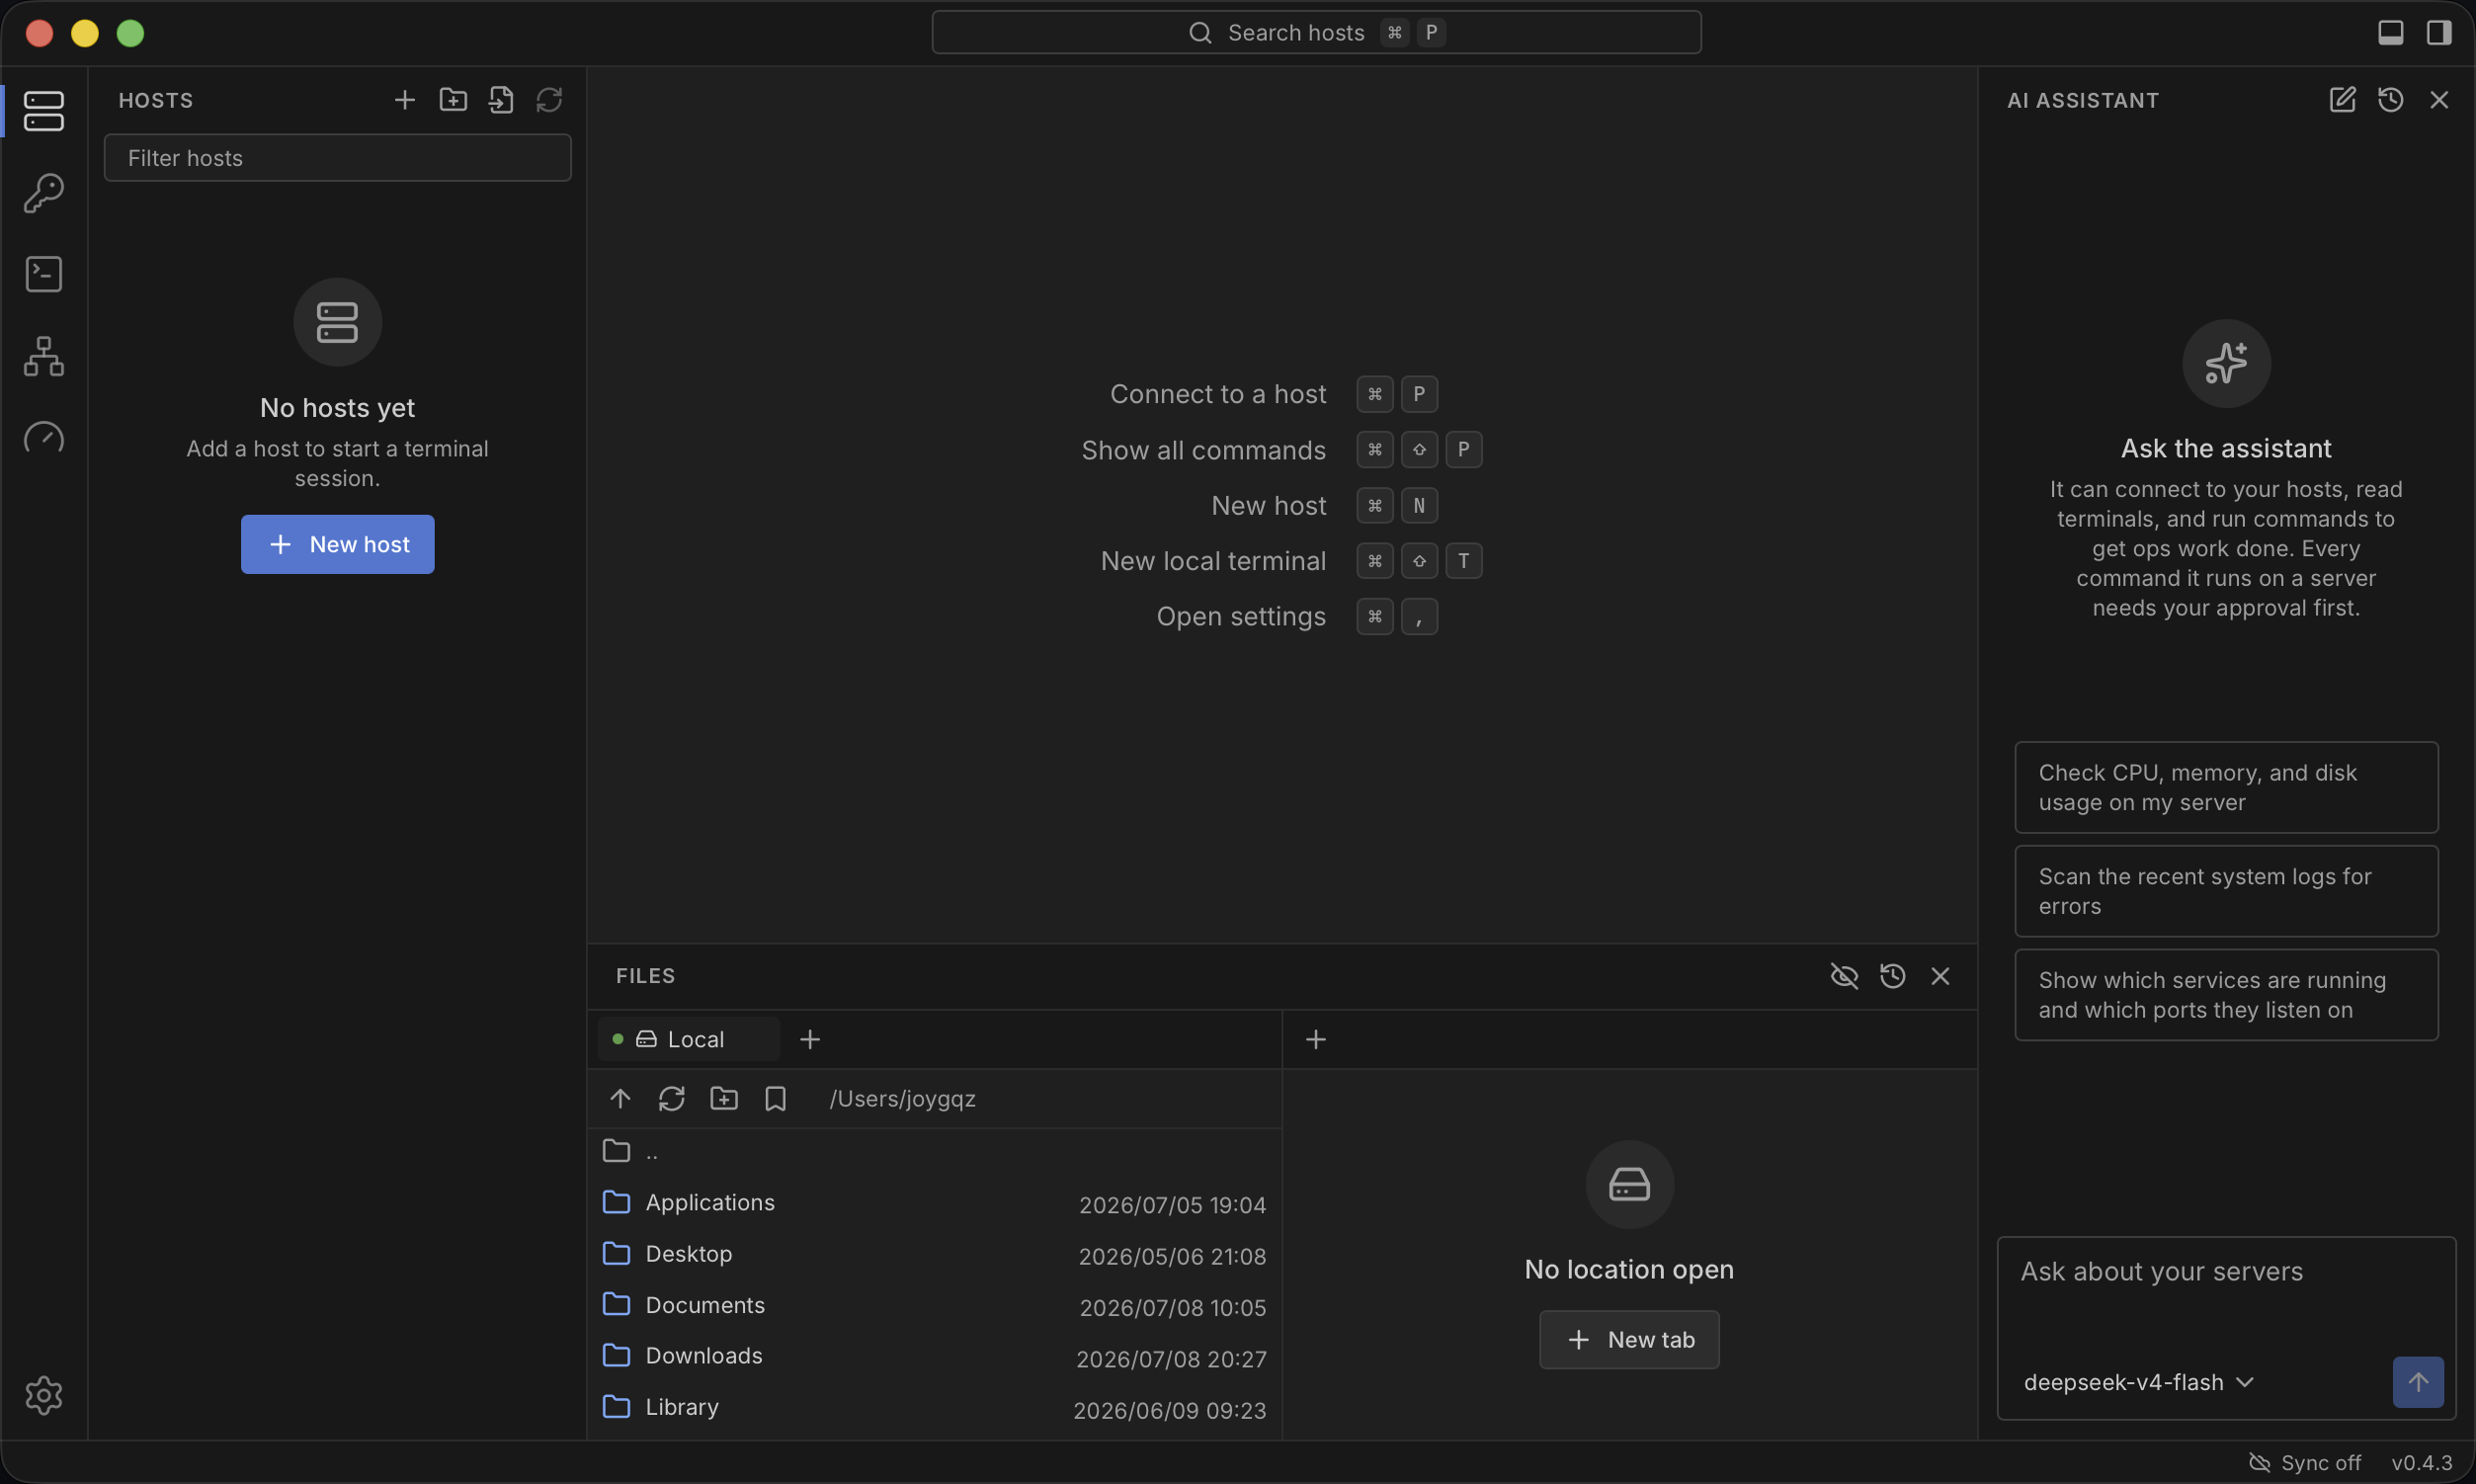
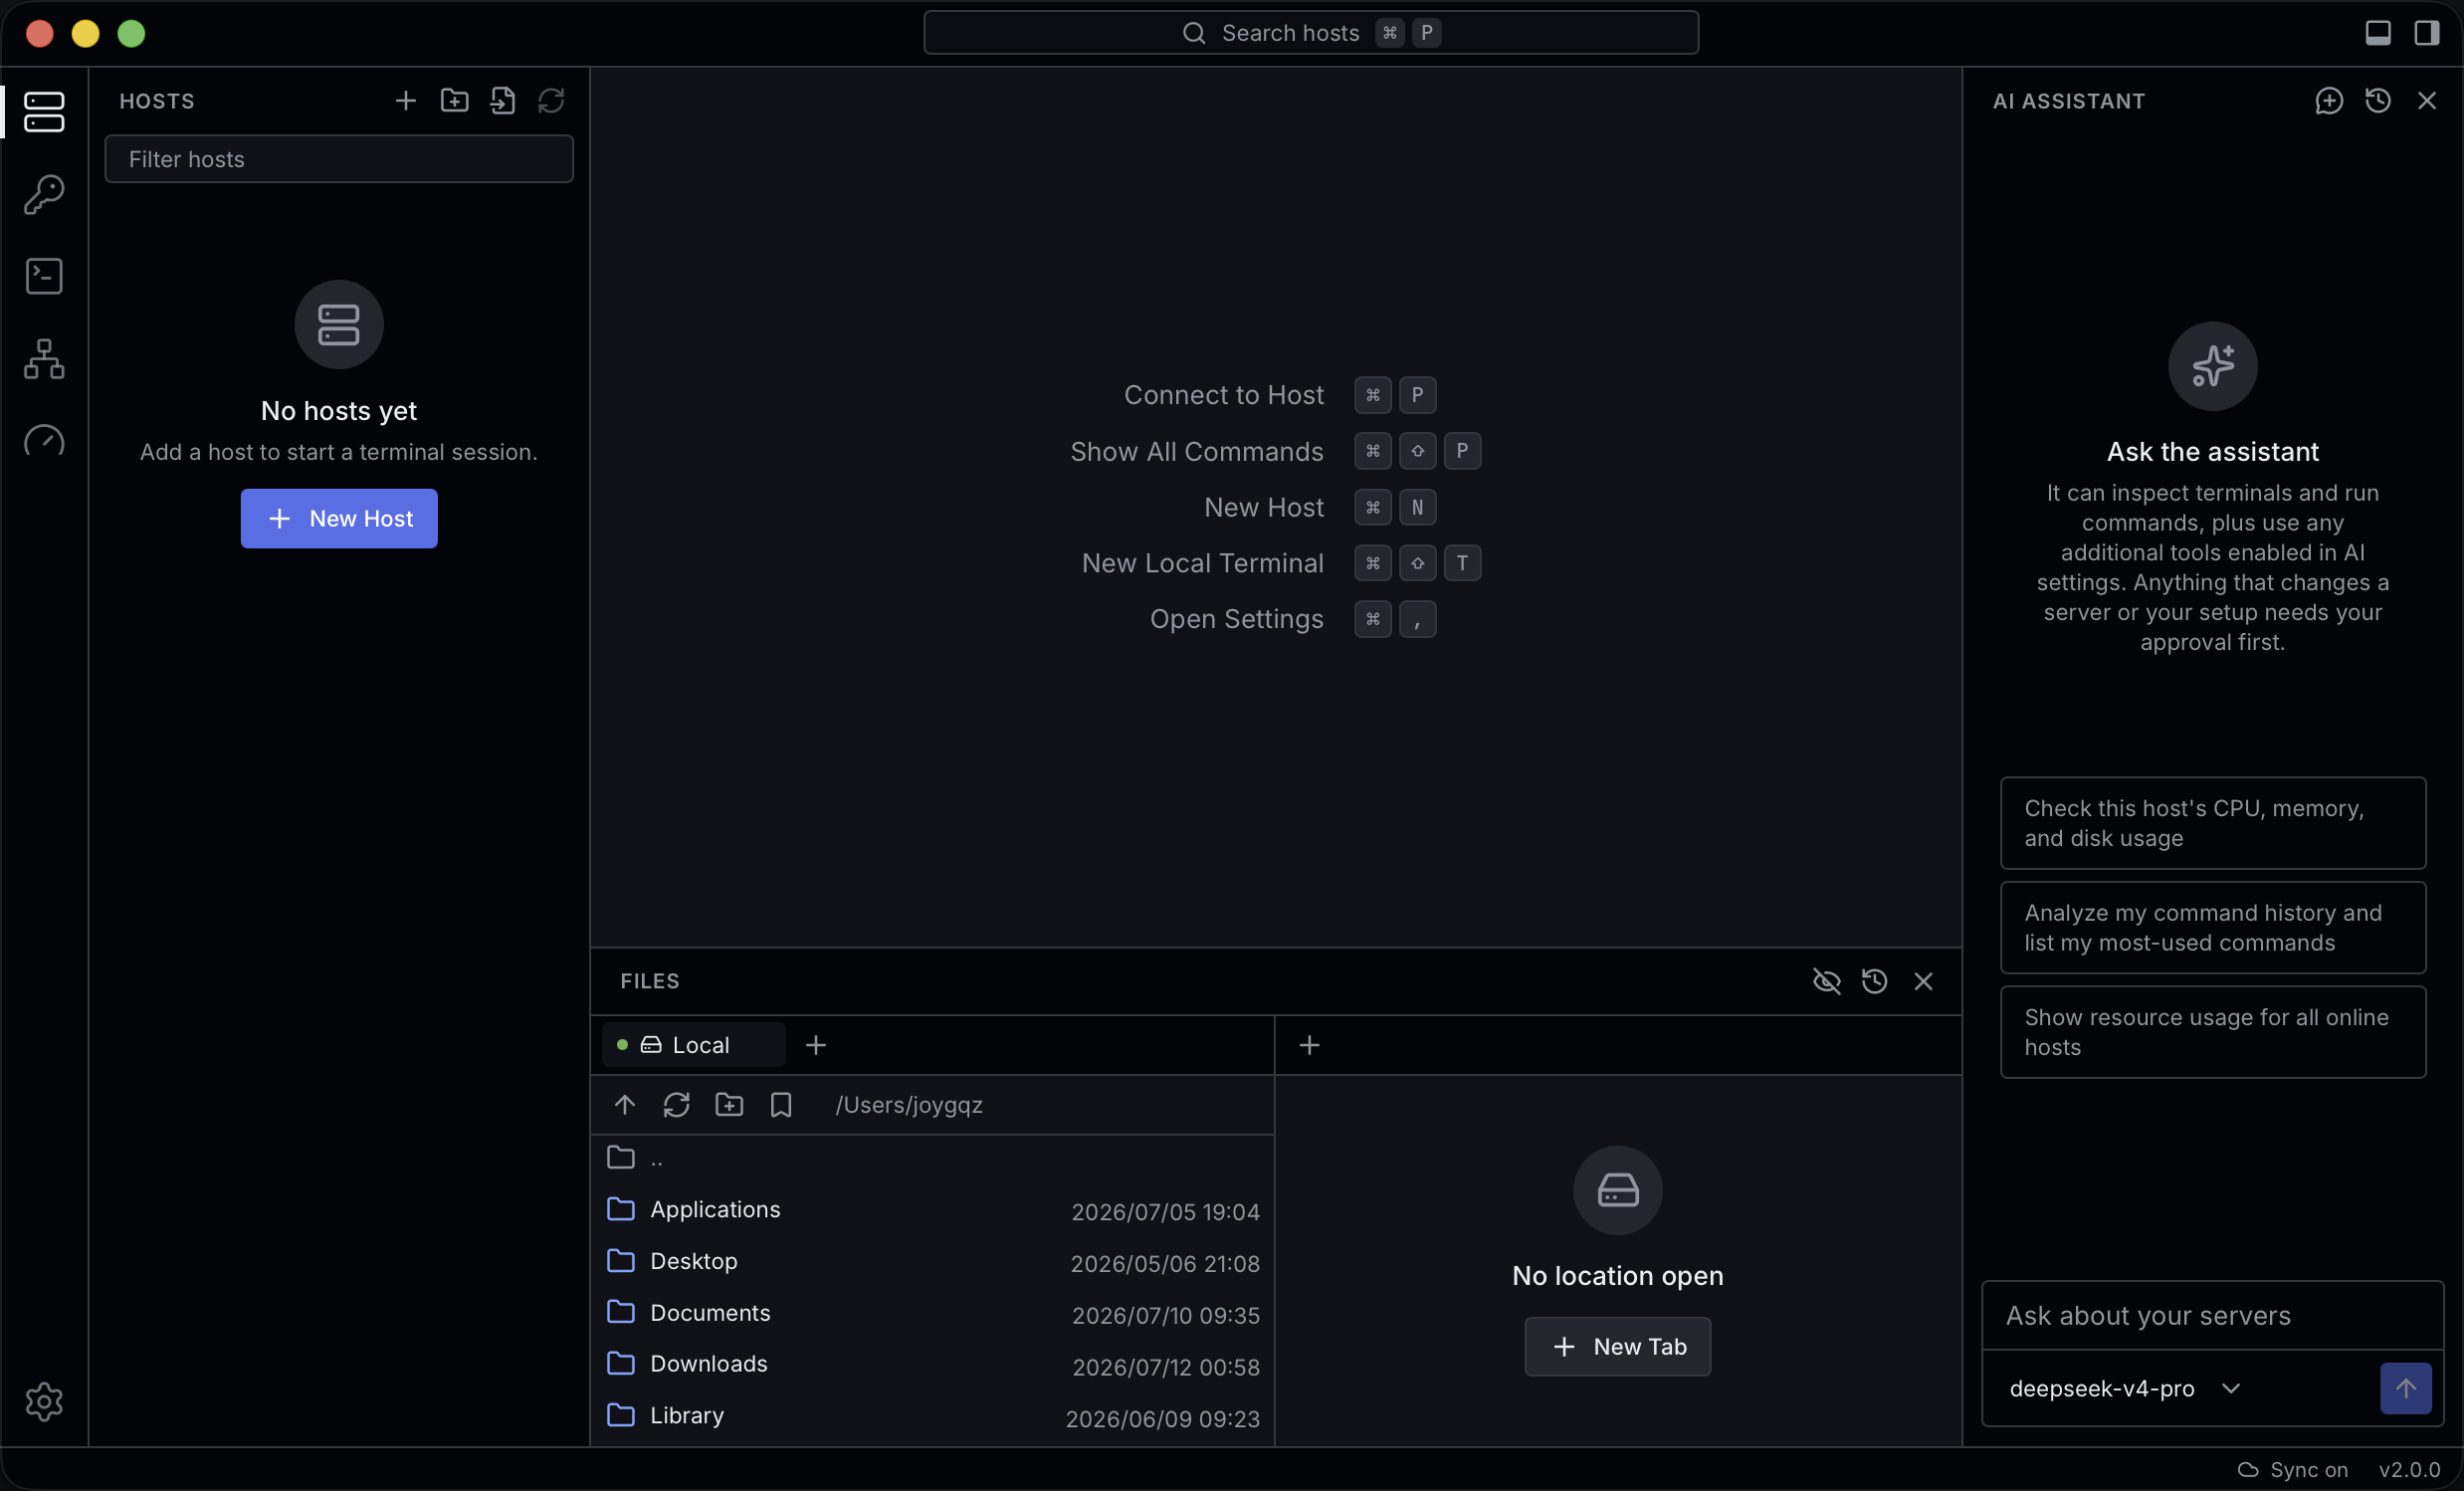
docs(readme): restructure README with highlights and expanded features
- Add Highlights section summarizing key capabilities
- Expand feature descriptions into sub-bullets for readability
- Update navigation link from Features to Highlights
- Update tagline for clarity
- Update screenshot image

diff --git a/README.md b/README.md
@@ -4,13 +4,13 @@
 
 # Sageport
 
-**SSH workbench with integrated SFTP, credential management, and an AI assistant**
+**A modern SSH workbench — terminal, SFTP, key management, and an AI assistant in one desktop app**
 
 [![Latest release](https://img.shields.io/github/v/release/joygqz/sageport)](https://github.com/joygqz/sageport/releases/latest)
 [![License: GPL-3.0](https://img.shields.io/badge/license-GPL--3.0-blue)](LICENSE)
 [![Built with Tauri](https://img.shields.io/badge/built%20with-Tauri%202-24C8DB)](https://tauri.app)
 
-[Download](https://github.com/joygqz/sageport/releases/latest) · [Features](#features) · [Quick start](#quick-start) · [Security](#security)
+[Download](https://github.com/joygqz/sageport/releases/latest) · [Highlights](#highlights) · [Features](#features) · [Quick start](#quick-start) · [Security](#security)
 
 </div>
 
@@ -18,15 +18,42 @@
 
 ![Sageport workbench](docs/screenshot.png)
 
-Sageport consolidates the tools of routine server operations — terminal, file transfer, key management, and command snippets — into a single desktop application with a VSCode-style layout: activity bar, side bar, tabbed editor area, bottom panel, and command palette. All data is stored in a local SQLite database; optional multi-device sync transmits only end-to-end encrypted ciphertext.
+Sageport brings every tool of routine server work — terminal, file transfer, key management, monitoring, and command snippets — into a single VSCode-style desktop app. Everything lives in a local SQLite database; optional multi-device sync moves only end-to-end encrypted ciphertext.
+
+## Highlights
+
+- **All your server tools in one window** — SSH terminal, SFTP, credentials, monitoring, port forwarding, and snippets, laid out like VSCode: activity bar, side bar, tabbed editor area, bottom panel, and command palette.
+- **A terminal that keeps up** — GPU-accelerated xterm.js (WebGL) on a pure-Rust SSH stack (russh), with inline history autocomplete, scrollback search, and broadcast-to-all-sessions.
+- **An AI assistant that operates the workbench** — beyond chat, it lists hosts, opens connections, reads terminal output, and proposes or runs commands through guarded tools — in supervised or autonomous mode.
+- **End-to-end encrypted multi-device sync** — five providers (GitHub Gist, Google Drive, OneDrive, WebDAV, S3), keys derived with Argon2id and payloads sealed with AES-256-GCM. Only ciphertext ever leaves the device.
+- **Local-first, no account required** — all data stays in a local SQLite database; the cloud is strictly opt-in.
+- **Cross-platform & self-updating** — a lightweight native app for macOS, Windows, and Linux, built on Tauri 2.
 
 ## Features
 
-**Terminal** — GPU-accelerated rendering via xterm.js with WebGL, built on a pure-Rust SSH stack (russh). Tabbed concurrent sessions that persist in the background without reflow, keepalives with one-click reconnect, scrollback search (<kbd>⌘</kbd> <kbd>F</kbd>), clickable links, and full Unicode support. Inline autocomplete suggests commands from your history as you type, and input can be broadcast to every connected session at once. Local shell tabs run alongside SSH sessions, and typing `user@host` in the command palette connects immediately — no saved host required.
+**Terminal** — GPU-accelerated rendering via xterm.js with WebGL, on a pure-Rust SSH stack (russh).
 
-**Hosts & credentials** — Hosts organized into collapsible groups with live connection indicators, jump-host (ProxyJump) chains, per-host startup commands, and one-click import from your existing `~/.ssh/config`. Connections verify host keys on first use and support the system SSH agent. Credentials are decoupled from hosts, so one identity can be reused across servers. The built-in key manager generates and imports Ed25519, RSA, and ECDSA keys in OpenSSH format, with optional passphrase protection.
+- Tabbed concurrent sessions that persist in the background without reflow
+- Keepalives with one-click reconnect
+- Scrollback search (<kbd>⌘</kbd> <kbd>F</kbd>), clickable links, and full Unicode support
+- Inline autocomplete suggests commands from your history as you type
+- Broadcast input to every connected session at once
+- Local shell tabs alongside SSH — type `user@host` in the command palette to connect with no saved host
 
-**File transfer & editing** — Dual-pane browser where each pane can show the local filesystem or an SFTP connection. Drag-and-drop transfer in both directions, in-transit archiving for directories with many small files, a permissions editor, path bookmarks, and a complete transfer history. Text files open in an editor tab with syntax highlighting and save straight back over SFTP.
+**Hosts & credentials** — Hosts organized into collapsible groups with live connection indicators.
+
+- Jump-host (ProxyJump) chains and per-host startup commands
+- One-click import from your existing `~/.ssh/config`
+- Host-key verification on first use and system SSH-agent support
+- Credentials decoupled from hosts, so one identity can be reused across servers
+- Built-in key manager generates and imports Ed25519, RSA, and ECDSA keys in OpenSSH format, with optional passphrase protection
+
+**File transfer & editing** — Dual-pane browser where each pane can show the local filesystem or an SFTP connection.
+
+- Drag-and-drop transfer in both directions
+- In-transit archiving for directories with many small files
+- Permissions editor, path bookmarks, and a complete transfer history
+- Open text files in an editor tab with syntax highlighting and save straight back over SFTP
 
 **Monitoring** — A dedicated sidebar shows live CPU, memory, disk, and network statistics for connected hosts, with a compact summary for the active host in the status bar.
 
@@ -34,9 +61,18 @@ Sageport consolidates the tools of routine server operations — terminal, file 
 
 **Snippets** — Frequently used commands with `{{variable}}` placeholders, sent to the active terminal or run across many hosts at once with per-host results.
 
-**AI assistant** — Bring your own API key; supports Anthropic and any OpenAI-compatible endpoint with configurable base URL and model, with prompt caching to cut token costs. The assistant works with your workbench through tools: it can list saved hosts, open connections, inspect terminal output, and propose commands. Supervised mode requires confirmation for operations; an explicitly enabled Autonomous mode approves them automatically while still asking when scope is ambiguous. Conversations are stored locally.
+**AI assistant** — Bring your own API key; supports Anthropic and any OpenAI-compatible endpoint with configurable base URL and model, plus prompt caching to cut token costs.
 
-**Sync & backup** — Cross-device sync through one of five providers — GitHub Gist, Google Drive, and Microsoft OneDrive via OAuth, or WebDAV and S3 with your own credentials — encrypted end to end with a passphrase-derived key. Only ciphertext ever leaves the device. Syncs hosts, credentials, snippets, port forwards, bookmarks, and interface preferences (locale, theme, zoom). Automatic last-write-wins conflict resolution, revision history with restore, and encrypted export/import for offline backups.
+- Works through your workbench: lists saved hosts, opens connections, inspects terminal output, and proposes commands
+- Supervised mode requires confirmation for operations; explicitly enabled Autonomous mode approves them automatically while still asking when scope is ambiguous
+- Conversations are stored locally
+
+**Sync & backup** — Cross-device sync through one of five providers — GitHub Gist, Google Drive, and Microsoft OneDrive via OAuth, or WebDAV and S3 with your own credentials.
+
+- End-to-end encrypted with a passphrase-derived key; only ciphertext ever leaves the device
+- Syncs hosts, credentials, snippets, port forwards, bookmarks, and interface preferences (locale, theme, zoom)
+- Automatic last-write-wins conflict resolution and revision history with restore
+- Encrypted export/import for offline backups
 
 **Interface** — Six full themes (terminal palette included), English and Simplified Chinese localization, whole-UI zoom, command palette (<kbd>⌘</kbd> <kbd>P</kbd> / <kbd>⌘</kbd> <kbd>⇧</kbd> <kbd>P</kbd>), and automatic updates.
 